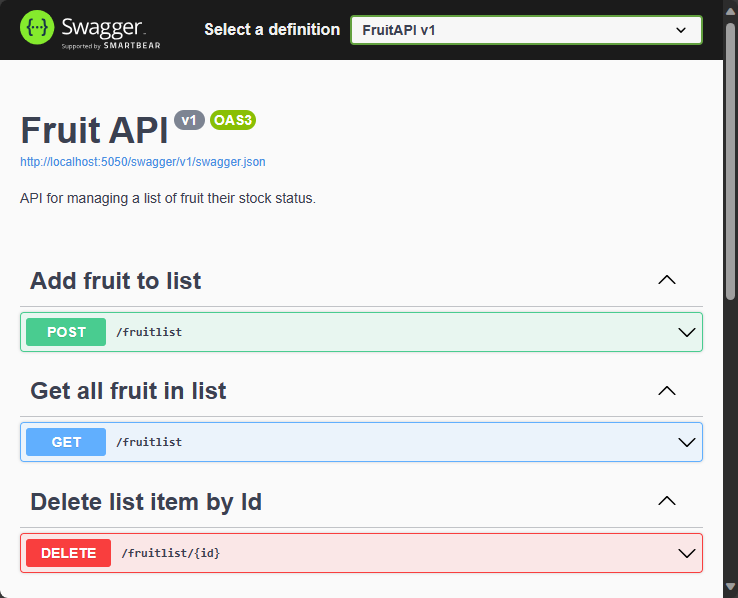
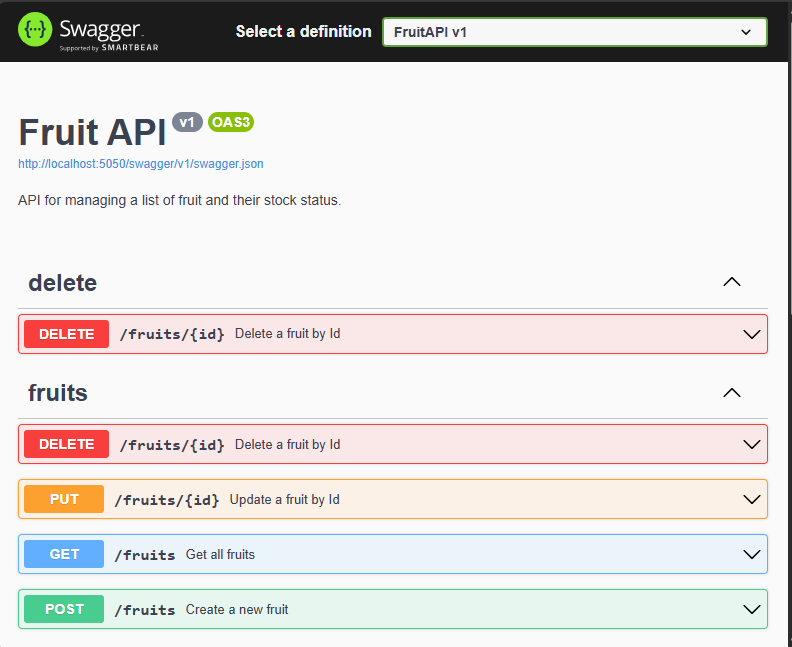
updated task and launch files

Changed region(s): [[0.0, 0.0, 1.0, 1.0], [0.0, 0.1505, 0.4363, 0.3612], [0.0, 0.9933, 0.0312, 1.0]]

diff --git a/Instructions/Labs/01-interact-with-an-api.md b/Instructions/Labs/01-interact-with-an-api.md
@@ -18,7 +18,7 @@ After you complete this exercise, you'll be able to:
 To complete the exercise you need to have the following installed on your system:
 
 * [Visual Studio Code](https://code.visualstudio.com)
-* [The latest .NET 7.0 SDK](https://dotnet.microsoft.com/download/dotnet/7.0)
+* [The latest .NET 8.0 SDK](https://dotnet.microsoft.com/download/dotnet/8.0)
 * [The C# extension](https://marketplace.visualstudio.com/items?itemName=ms-dotnettools.csharp) for Visual Studio Code
 * The [Azure Resources](https://marketplace.visualstudio.com/items?itemName=ms-azuretools.vscode-azureresourcegroups) extension for Visual Studio Code.
 * [The Azure App Service](https://marketplace.visualstudio.com/items?itemName=ms-azuretools.vscode-azureappservice) extension for Visual Studio Code.
@@ -110,13 +110,13 @@ In this section you:
 
 ### Task 1: Perform a `GET` operation
 
-1. Expand the **GET** operation in the **Get all fruit** section by clicking anywhere in the **GET** operation box.
+1. Expand the **GET** operation with the **Get all fruits** descriptor by clicking anywhere in the **GET** operation box.
 
 1. Explore the sections of the operation and note the information shown in the following table.
 
     | Section | Description |
     |---|--|
-    | **Endpoint** | Shown in the header of the operation. The endpoint is shown as `/fruitlist`. The full URI is the base URL for the API appended with the specified endpoint, `http://localhost:5050/fruitlist` in our example. |
+    | **Endpoint** | Shown in the header of the operation. The endpoint is shown as `/fruits`. The full URI is the base URL for the API appended with the specified endpoint, `http://localhost:5050/fruits` in our example. |
     | **Parameters** | None required for this operation. |
     | **Media type** | Specifies the media type encoding the operation will return. |
     | **Example Value** | Displays the schema of the data returned by the operation. Note that this operation returns a JSON array. |
@@ -130,13 +130,13 @@ In this section you:
 
 ### Task 2: Perform a `POST` operation
 
-1. Expand the **POST** operation in the **Add fruit to list** section by clicking anywhere in the **POST** operation box.
+1. Expand the **POST** operation with the **Create a new fruit** descriptor by clicking anywhere in the **POST** operation box.
 
 1. Explore the sections of the operation and note the information shown in the following table.
 
     | Section | Description |
     |---|--|
-    | **Endpoint** | The endpoint is shown as `/fruitlist`. The full URI is the base URL for the API appended with the specified endpoint, `http://localhost:5050/fruitlist` in our example. |
+    | **Endpoint** | The endpoint is shown as `/fruits`. The full URI is the base URL for the API appended with the specified endpoint, `http://localhost:5050/fruits` in our example. |
     | **Parameters** | None required for this operation. |
     | **Request body** | The **Request body** is required since the API is expecting data to add to the list and it is expecting the media type `application/json`. |
     | **Example Value** | Displays the schema of the data the API is expecting to receive. |  
@@ -160,17 +160,17 @@ In this section you:
     * **Request URL:** The URL accessed in the operation.
     * **Server response:**  Shows the success code from the operation and the **Response body** displays the record added to the database.
 
-1. Run the `GET` command in the **Get all fruit in list** section and note that a record for *Pear* is now included.
+1. Run the `GET` command in the **Get all fruits** section and note that a record for *Pear* is now included.
 
 ### Task 3: Perform a `DELETE` operation
 
-1. Expand the **DELETE** operation in the **Delete fruit by Id** section by clicking anywhere in the **DELETE** operation box.
+1. Expand the **DELETE** operation with the **Delete a fruit by Id** descriptor by clicking anywhere in the **DELETE** operation box.
 
 1. Explore the sections of the operation and note the information shown in the following table.
 
     | Section | Description |
     |---|--|
-    | **Endpoint** | The endpoint is shown as `/fruitlist/{id}`. The full URI is the base URL for the API appended with the specified `id` for deletion. For example, `http://localhost:5050/fruitlist/1` points to the record where `id` equals `1`.
+    | **Endpoint** | The endpoint is shown as `/fruits/{id}`. The full URI is the base URL for the API appended with the specified `id` for deletion. For example, `http://localhost:5050/fruits/1` points to the record where `id` equals `1`.
     | **Parameters** | Requires the `id` of the record to be passed in the request URL. |
 
 1. To run the operation select the **Try it out** button. 
@@ -183,7 +183,7 @@ In this section you:
     * **Response body:** Displays the deleted record.
     * **Code:**  Shows the success code from the operation.
 
-1. Run the `GET` command in the **Get all fruit in list** section and note that the record for *Apple* is now deleted.
+1. Run the `GET` command in the **Get all fruits** section and note that the record for *Apple* is now deleted.
 
 When you are ready to move to the next section of the exercise:
 
@@ -220,7 +220,7 @@ In this section you:
 
 1. Select **+Create new resource group** and accept the default value or enter `fruitapi-rg`.
 
-1. Select **.NET 7 (STS)** for the runtime stack.
+1. Select **.NET 8 (LTS)** for the runtime stack.
 
 1. Select **Linux** for the operating system
 

diff --git a/Instructions/Labs/02-implement-http-operations.md b/Instructions/Labs/02-implement-http-operations.md
@@ -11,14 +11,14 @@ In this exercise, you learn how to add code to an ASP.NET Core Razor Pages app t
 After you complete this exercise, you will be able to:
 
 * Implement `IHttpClientFactory` as the HTTP client
-* Implement HTTP operations in ASP.NET Core Razor Pages
+* Implement HTTP operations in ASP.NET Blazor projects
 
 ## Prerequisites
 
 To complete the exercise you need to have the following installed on your system:
 
 * [Visual Studio Code](https://code.visualstudio.com)
-* [The latest .NET 7.0 SDK](https://dotnet.microsoft.com/download/dotnet/7.0)
+* [The latest .NET 8.0 SDK](https://dotnet.microsoft.com/download/dotnet/8.0)
 * [The C# extension](https://marketplace.visualstudio.com/items?itemName=ms-dotnettools.csharp) for Visual Studio Code
 
 **Estimated exercise completion time**: 30 minutes
@@ -27,7 +27,7 @@ To complete the exercise you need to have the following installed on your system
 
 This exercise has two components:
 
-* An app that sends HTTP requests to an API. The app runs on `http://localhost:5010`
+* An app that sends HTTP requests to an API.
 * An API that responds to HTTP requests. The API runs on `http://localhost:5050`
 
 ![Decorative](media/02-architecture.png)
